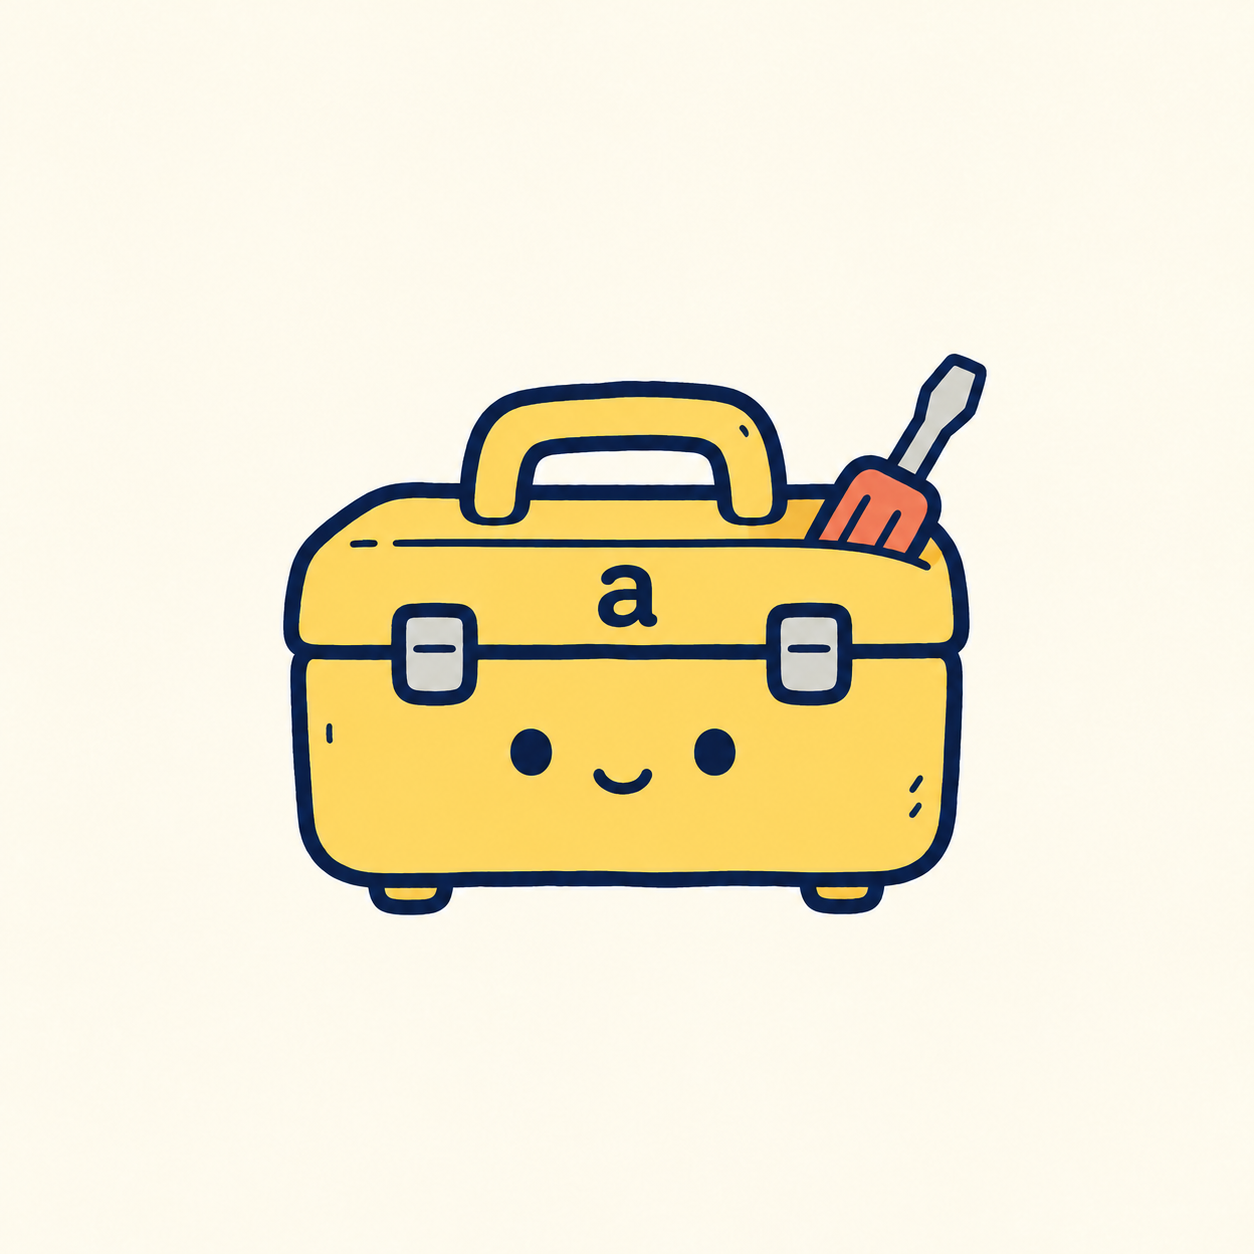
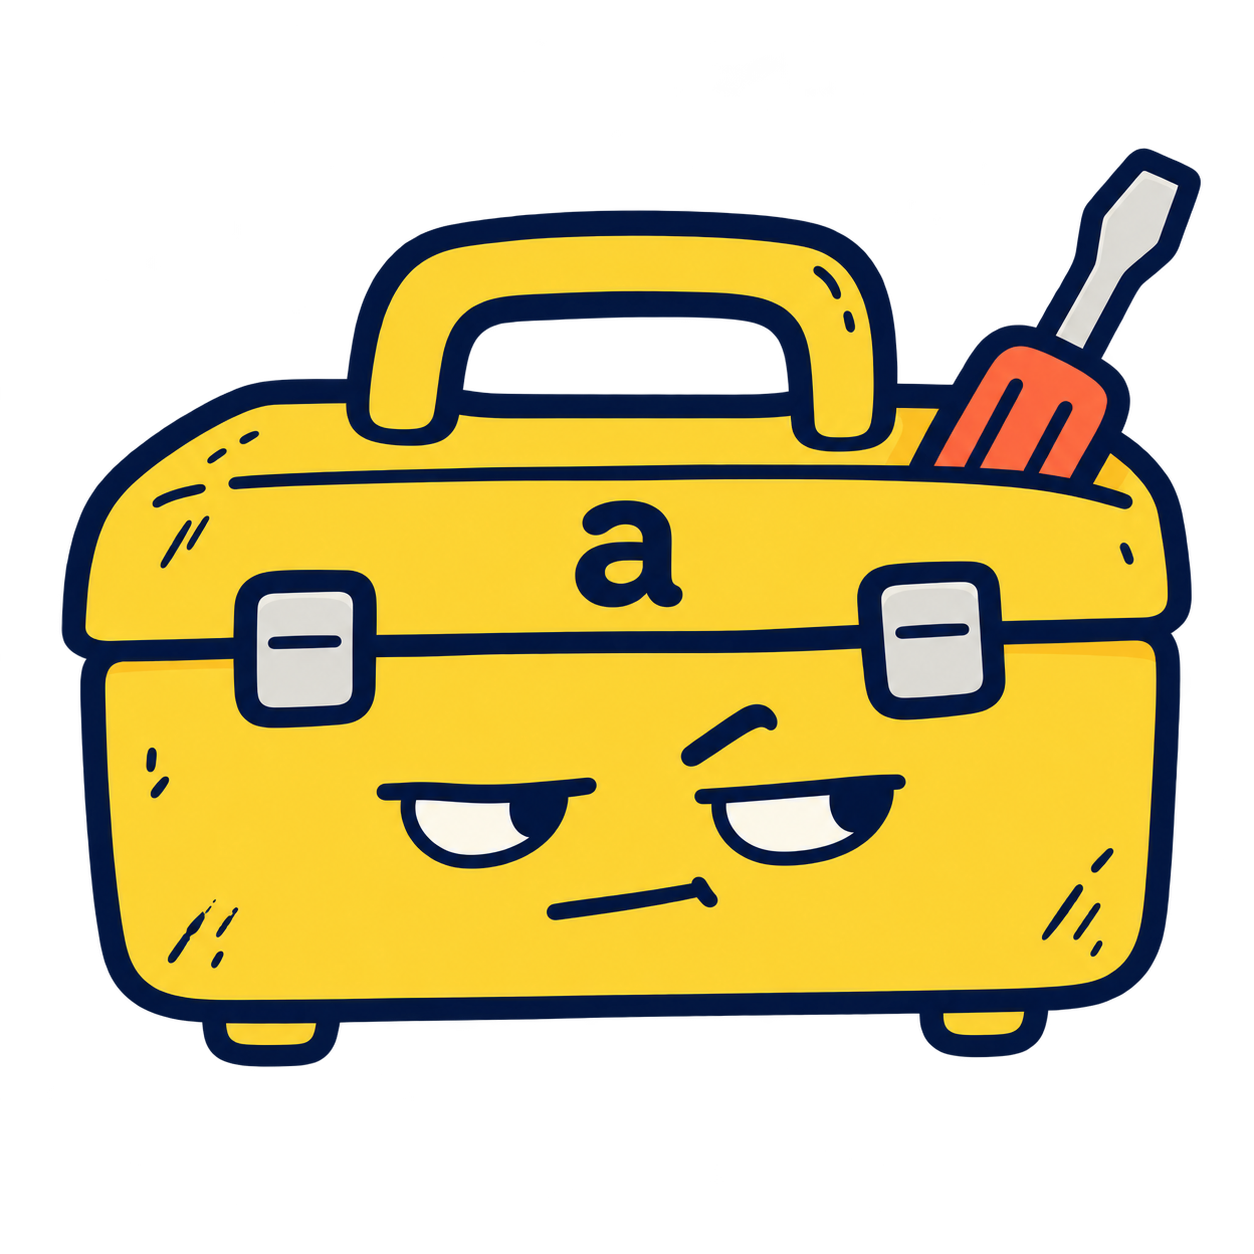
Give the toolbox a transparent background and deadpan expression

diff --git a/README.md b/README.md
@@ -1,6 +1,6 @@
 # aataraxiaa agent kit
 
-<img src="plugins/aataraxiaa/assets/icon.png" alt="A friendly yellow toolbox with a lowercase a" width="180">
+<img src="plugins/aataraxiaa/assets/icon.png" alt="A deadpan yellow toolbox with a lowercase a" width="180">
 
 Personal development skills for Claude Code and Codex. The first skill, `aataraxiaa:visual-review`, helps you understand agent-written work through concise interactive HTML explanations.
 
@@ -20,7 +20,7 @@ claude plugin install aataraxiaa@aataraxiaa-tools
 ### Codex
 
 ```sh
-codex plugin marketplace add https://github.com/aataraxiaa/aataraxiaa-agent-kit.git --ref v0.2.0
+codex plugin marketplace add https://github.com/aataraxiaa/aataraxiaa-agent-kit.git --ref v0.2.1
 codex plugin add aataraxiaa@aataraxiaa-tools
 ```
 
